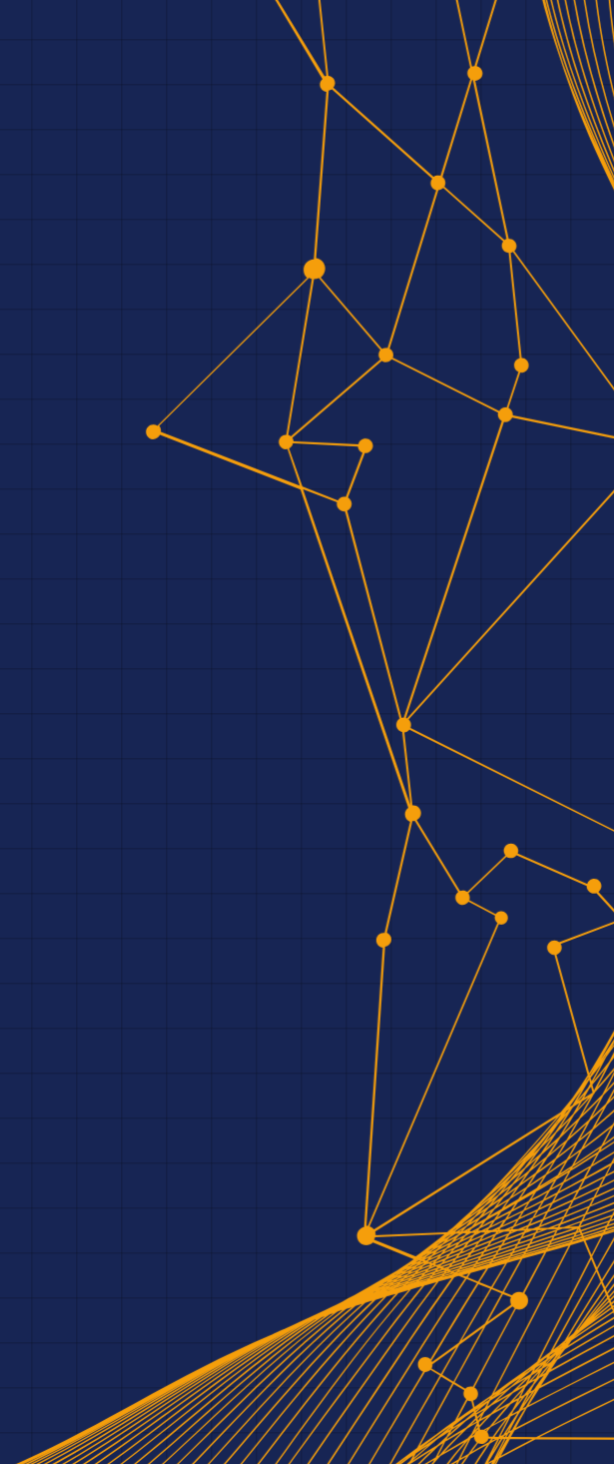
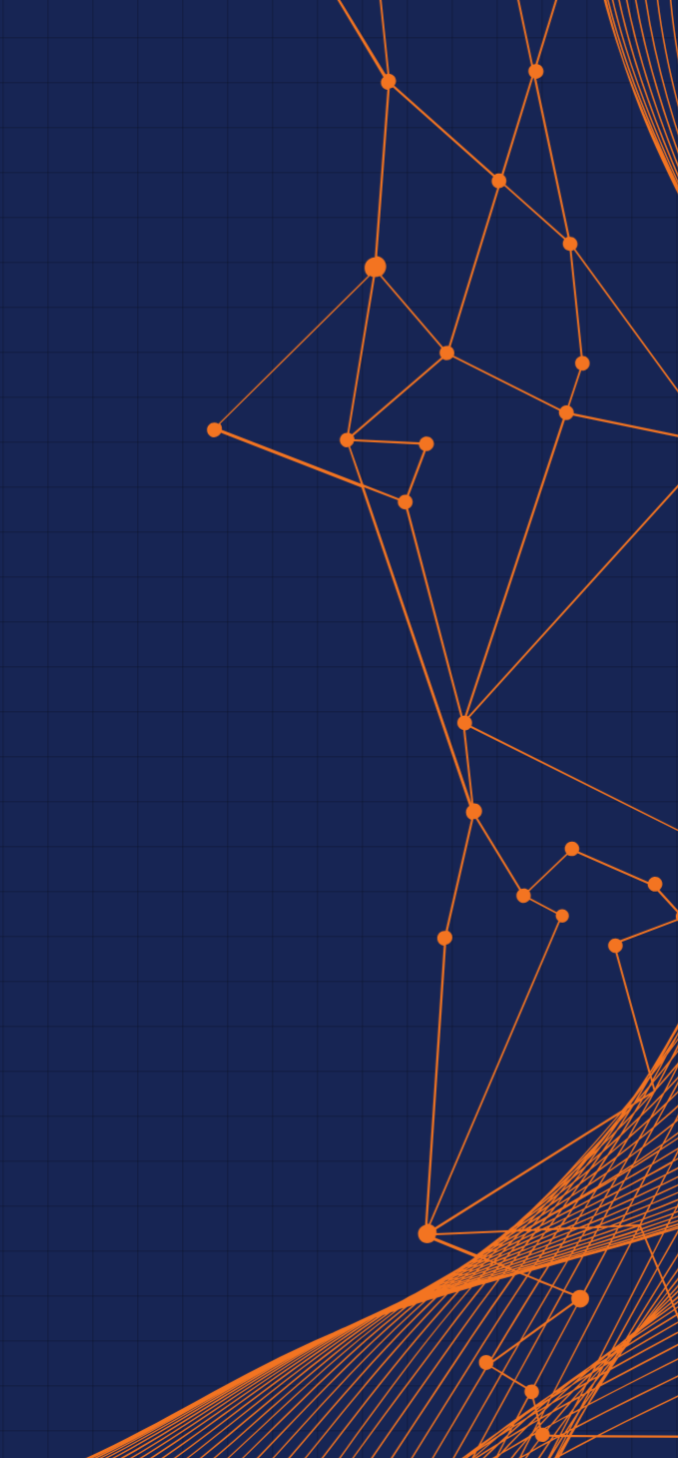
chg font colors

diff --git a/src/app/(sections)/Contact.tsx b/src/app/(sections)/Contact.tsx
@@ -2,11 +2,11 @@ export default function Contact() {
   return (
     <div className="p-10">
       <div className="mx-auto text-center">
-        <p className="mt-2 text-4xl font-bold tracking-tight text-primary sm:text-5xl">
+        <p className="mt-2 text-4xl font-bold tracking-tight text-orange-500 sm:text-5xl">
           Contact
         </p>
         <p className="mt-2 text-lg text-white">
-          <span className="text-primary font-semibold">Zephyr</span>는 새로운
+          <span className="text-orange-500 font-semibold">Zephyr</span>는 새로운
           인연을 기다립니다.
         </p>
       </div>
@@ -16,13 +16,13 @@ export default function Contact() {
             type="email"
             name="floating_email"
             id="floating_email"
-            className="block py-2.5 px-0 w-full text-sm text-white bg-transparent border-0 border-b-2 border-gray-300 appearance-none focus:outline-none focus:ring-0 focus:border-yellow-500 peer"
+            className="block py-2.5 px-0 w-full text-sm text-white bg-transparent border-0 border-b-2 border-gray-300 appearance-none focus:outline-none focus:ring-0 focus:border-orange-500 peer"
             placeholder=" "
             required
           />
           <label
             htmlFor="floating_email"
-            className="peer-focus:font-medium absolute text-sm text-gray-300 duration-300 transform -translate-y-6 scale-75 top-3 -z-10 origin-[0] peer-focus:start-0 rtl:peer-focus:translate-x-1/4 rtl:peer-focus:left-auto peer-focus:text-yellow-500 peer-placeholder-shown:scale-100 peer-placeholder-shown:translate-y-0 peer-focus:scale-75 peer-focus:-translate-y-6"
+            className="peer-focus:font-medium absolute text-sm text-gray-300 duration-300 transform -translate-y-6 scale-75 top-3 -z-10 origin-[0] peer-focus:start-0 rtl:peer-focus:translate-x-1/4 rtl:peer-focus:left-auto peer-focus:text-orange-500 peer-placeholder-shown:scale-100 peer-placeholder-shown:translate-y-0 peer-focus:scale-75 peer-focus:-translate-y-6"
           >
             Email
           </label>
@@ -32,13 +32,13 @@ export default function Contact() {
             type="email"
             name="floating_email"
             id="floating_email"
-            className="block py-2.5 px-0 w-full text-sm text-white bg-transparent border-0 border-b-2 border-gray-300 appearance-none focus:outline-none focus:ring-0 focus:border-yellow-500 peer"
+            className="block py-2.5 px-0 w-full text-sm text-white bg-transparent border-0 border-b-2 border-gray-300 appearance-none focus:outline-none focus:ring-0 focus:border-orange-500 peer"
             placeholder=" "
             required
           />
           <label
             htmlFor="floating_email"
-            className="peer-focus:font-medium absolute text-sm text-gray-300 duration-300 transform -translate-y-6 scale-75 top-3 -z-10 origin-[0] peer-focus:start-0 rtl:peer-focus:translate-x-1/4 rtl:peer-focus:left-auto peer-focus:text-yellow-500 peer-placeholder-shown:scale-100 peer-placeholder-shown:translate-y-0 peer-focus:scale-75 peer-focus:-translate-y-6"
+            className="peer-focus:font-medium absolute text-sm text-gray-300 duration-300 transform -translate-y-6 scale-75 top-3 -z-10 origin-[0] peer-focus:start-0 rtl:peer-focus:translate-x-1/4 rtl:peer-focus:left-auto peer-focus:text-orange-500 peer-placeholder-shown:scale-100 peer-placeholder-shown:translate-y-0 peer-focus:scale-75 peer-focus:-translate-y-6"
           >
             Title
           </label>
@@ -56,7 +56,7 @@ export default function Contact() {
           placeholder="당신의 의견을 기다립니다."
         />
         <div className="flex justify-end">
-          <a className="text-gray-900 cursor-pointer rounded-md bg-yellow-500 p-3 hover:bg-yellow-300 font-semibold">
+          <a className="text-gray-900 cursor-pointer rounded-md bg-orange-500 p-3 hover:bg-orange-300 font-semibold">
             보내기
           </a>
         </div>

diff --git a/src/app/(sections)/Solution.tsx b/src/app/(sections)/Solution.tsx
@@ -50,22 +50,25 @@ export default function Solution() {
     <div className="py-10">
       <div className="mx-auto px-6">
         <div className="mx-auto text-center">
-          <p className="mt-2 text-4xl font-bold tracking-tight text-primary sm:text-5xl">
+          <p className="mt-2 text-4xl font-bold tracking-tight text-orange-500 sm:text-5xl">
             Solution
           </p>
         </div>
         <p className="mt-3 text-lg leading-8 text-white text-center">
           데이터의 비즈니스화,{" "}
-          <span className="text-primary font-semibold">Zephyr</span>와 함께
+          <span className="text-orange-500 font-semibold">Zephyr</span>와 함께
           하세요.
         </p>
         <div className="mt-20 flow-root">
-          <div className="isolate -mt-16 grid max-w-sm grid-cols-1 gap-y-16 divide-y divide-yellow-300 sm:mx-auto lg:-mx-8 lg:mt-0 lg:max-w-none lg:grid-cols-3 lg:divide-x lg:divide-y-0 xl:-mx-4">
+          <div className="isolate -mt-16 grid max-w-sm grid-cols-1 gap-y-16 divide-y divide-orange-300 sm:mx-auto lg:-mx-8 lg:mt-0 lg:max-w-none lg:grid-cols-3 lg:divide-x lg:divide-y-0 xl:-mx-4">
             {tiers.map((tier) => (
-              <div key={tier.id} className="pt-16 lg:px-8 lg:pt-0 xl:px-14">
+              <div
+                key={tier.id}
+                className="pt-16 lg:px-8 lg:pt-0 xl:px-14 font-sans"
+              >
                 <h3
                   id={tier.id}
-                  className="text-base font-semibold leading-7 text-primary"
+                  className="text-base font-semibold leading-7 text-orange-500"
                 >
                   {tier.name}
                 </h3>
@@ -82,7 +85,7 @@ export default function Solution() {
                 </p>
                 <a
                   aria-describedby={tier.id}
-                  className="cursor-pointer mt-10 block rounded-md bg-primary px-3 py-2 text-center text-sm font-semibold leading-6 text-background shadow-sm hover:bg-yellow-300"
+                  className="cursor-pointer mt-10 block rounded-md bg-orange-500 px-3 py-2 text-center text-sm font-semibold leading-6 text-background shadow-sm hover:bg-orange-300"
                 >
                   Buy plan
                 </a>
@@ -97,7 +100,7 @@ export default function Solution() {
                     <li key={feature} className="flex gap-x-3">
                       <CheckCircleIcon
                         aria-hidden="true"
-                        className="h-6 w-5 flex-none text-yellow-500"
+                        className="h-6 w-5 flex-none text-orange-500"
                       />
                       {feature}
                     </li>

diff --git a/src/app/(sections)/Session.tsx b/src/app/(sections)/Session.tsx
@@ -80,26 +80,26 @@ export default function Session() {
   return (
     <div className="p-10">
       <div className="mx-auto text-center">
-        <p className="mt-2 text-4xl font-bold tracking-tight text-primary sm:text-5xl">
+        <p className="mt-2 text-4xl font-bold tracking-tight text-orange-500 sm:text-5xl">
           Session
         </p>
         <p className="mt-3 mb-5 text-lg text-white">
-          <span className="text-primary font-semibold">Zephyr</span>만의 풍성한
-          세션과 함께하세요.
+          <span className="text-orange-500 font-semibold">Zephyr</span>만의
+          풍성한 세션과 함께하세요.
         </p>
       </div>
       <div className="mx-auto grid sm:grid-cols-1 md:grid-cols-3 gap-x-5">
         {sessionData.map((placeInfo) => (
           <div className="col-span-1" key={placeInfo.place}>
-            <p className="text-center text-yellow-500 text-2xl font-semibold mb-3">
+            <p className="text-center text-orange-500 text-2xl font-semibold mb-3">
               {placeInfo.place}
             </p>
             {placeInfo.sessions.map((session) => (
               <div
-                className="mx-auto p-5 mb-5 border-yellow-200 border-2 rounded"
+                className="mx-auto p-5 mb-5 border-orange-500 border-2 rounded"
                 key={session.title}
               >
-                <p className="text-amber-300 text-xl font-semibold">
+                <p className="text-orange-400 text-xl font-semibold">
                   {session.title}
                 </p>
                 <p className="text-gray-300 text-sm">{session.time}</p>

diff --git a/src/app/(sections)/Speaker.tsx b/src/app/(sections)/Speaker.tsx
@@ -35,18 +35,18 @@ export default function Speaker() {
   return (
     <div className="p-10">
       <div className="mx-auto text-center">
-        <p className="mt-2 text-4xl font-bold tracking-tight text-primary sm:text-5xl">
+        <p className="mt-2 text-4xl font-bold tracking-tight text-orange-500 sm:text-5xl">
           Speaker
         </p>
         <p className="mt-3 mb-8 text-lg text-white">
-          <span className="text-primary font-semibold">Zephyrian</span>이
+          <span className="text-orange-500 font-semibold">Zephyrian</span>이
           여러분을 이끌 것입니다.
         </p>
       </div>
       <div className="mx-auto grid sm:grid-cols-1 md:grid-cols-3 gap-x-5 gap-y-10">
         {speakerData.map((speaker) => (
           <div className="col-span-1" key={speaker.name}>
-            <div className="w-4/5 rounded-full m-auto overflow-hidden">
+            <div className="w-1/2 rounded-full m-auto overflow-hidden">
               <img
                 src={speaker.image}
                 alt={speaker.name}
@@ -54,7 +54,7 @@ export default function Speaker() {
               />
             </div>
             <div className="text-center">
-              <p className="text-yellow-500 font-semibold text-2xl">
+              <p className="text-orange-500 font-semibold text-2xl">
                 {speaker.name}
               </p>
               <p>{speaker.job}</p>

diff --git a/src/app/Main.tsx b/src/app/Main.tsx
@@ -36,7 +36,7 @@ export default function Main({ curSectionIdx }: Props) {
       {pages.map((page, idx) => (
         <div
           key={idx}
-          className="lg:h-svh sm:h-auto w-3/4 mx-auto"
+          className="lg:h-svh sm:h-auto w-4/5 mx-auto"
           ref={(element) => {
             divRef.current[idx] = element;
           }}

diff --git a/src/app/layout.tsx b/src/app/layout.tsx
@@ -21,7 +21,7 @@ export default function RootLayout({
 }>) {
   return (
     <html lang="ko" className={`${pretendard.variable}`}>
-      <body className="bg-blue-950 text-white">{children}</body>
+      <body className="bg-blue-950 text-white font-pretendard">{children}</body>
     </html>
   );
 }

diff --git a/src/app/globals.css b/src/app/globals.css
@@ -19,3 +19,11 @@
 .font-tenada {
   font-family: "Tenada";
 }
+
+img {
+  -webkit-user-drag: none;
+  -khtml-user-drag: none;
+  -moz-user-drag: none;
+  -o-user-drag: none;
+  user-drag: none;
+}
